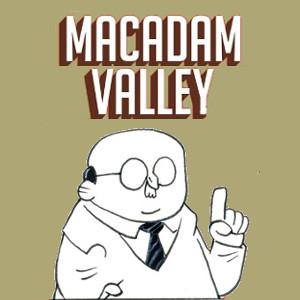
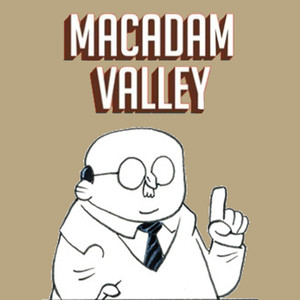
Update cover of Macadam Valley comic
https://40.media.tumblr.com/9d1c71f4a12537f3fca43efc0ca032ea/tumblr_mnvrsjjold1s5bv5oo1_500.jpg
http://macadamvalley.com/wp-content/uploads/2012/06/devinette.jpg

Changed region(s): [[0.12, 0.03, 0.87, 1.0], [0.24, 0.87, 0.33, 0.93], [0.57, 0.45, 0.6, 0.48]]

diff --git a/src/Comics/MacadamValley.cpp b/src/Comics/MacadamValley.cpp
@@ -16,7 +16,7 @@ MacadamValley::MacadamValley(QObject *parent) :
 {
     m_info.id             = QString("macadamvalley");
     m_info.name           = QString("Macadam Valley");
-    m_info.color          = QColor(174, 166, 117);
+    m_info.color          = QColor(185, 167, 131);
     m_info.authors        = QStringList("Ben Dessy");
     m_info.homepage       = QUrl("http://macadamvalley.com/");
     m_info.country        = QLocale::France;
